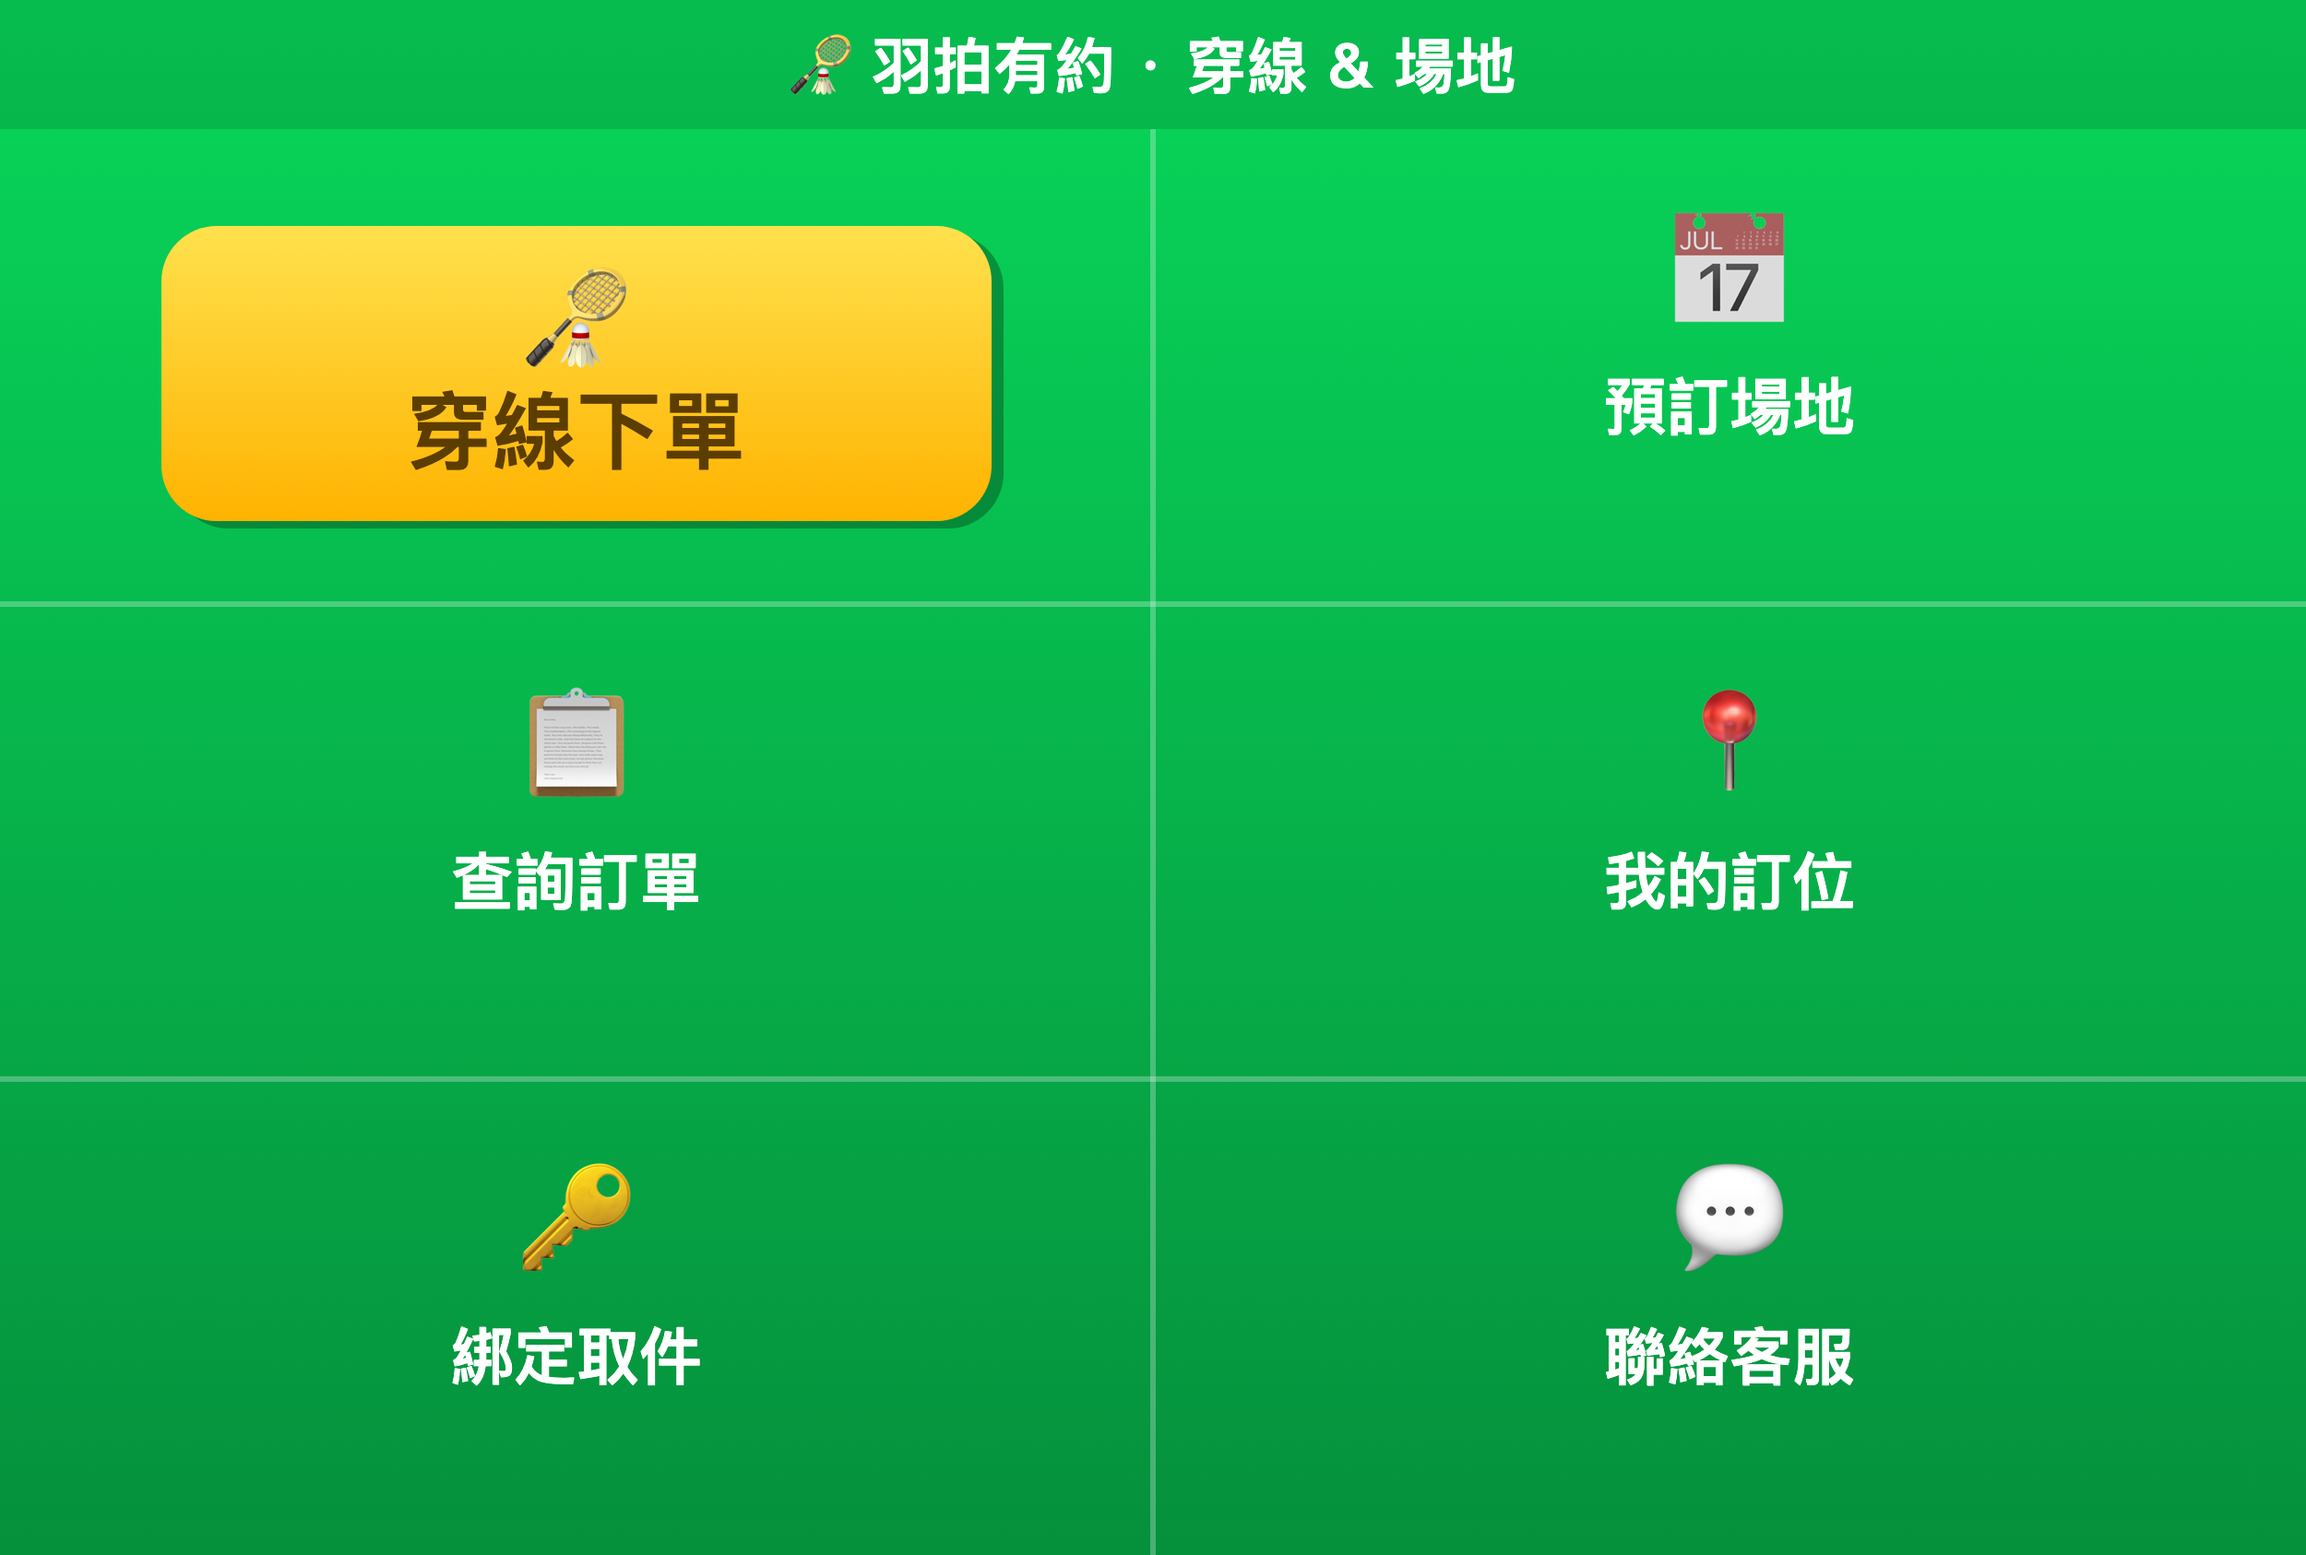
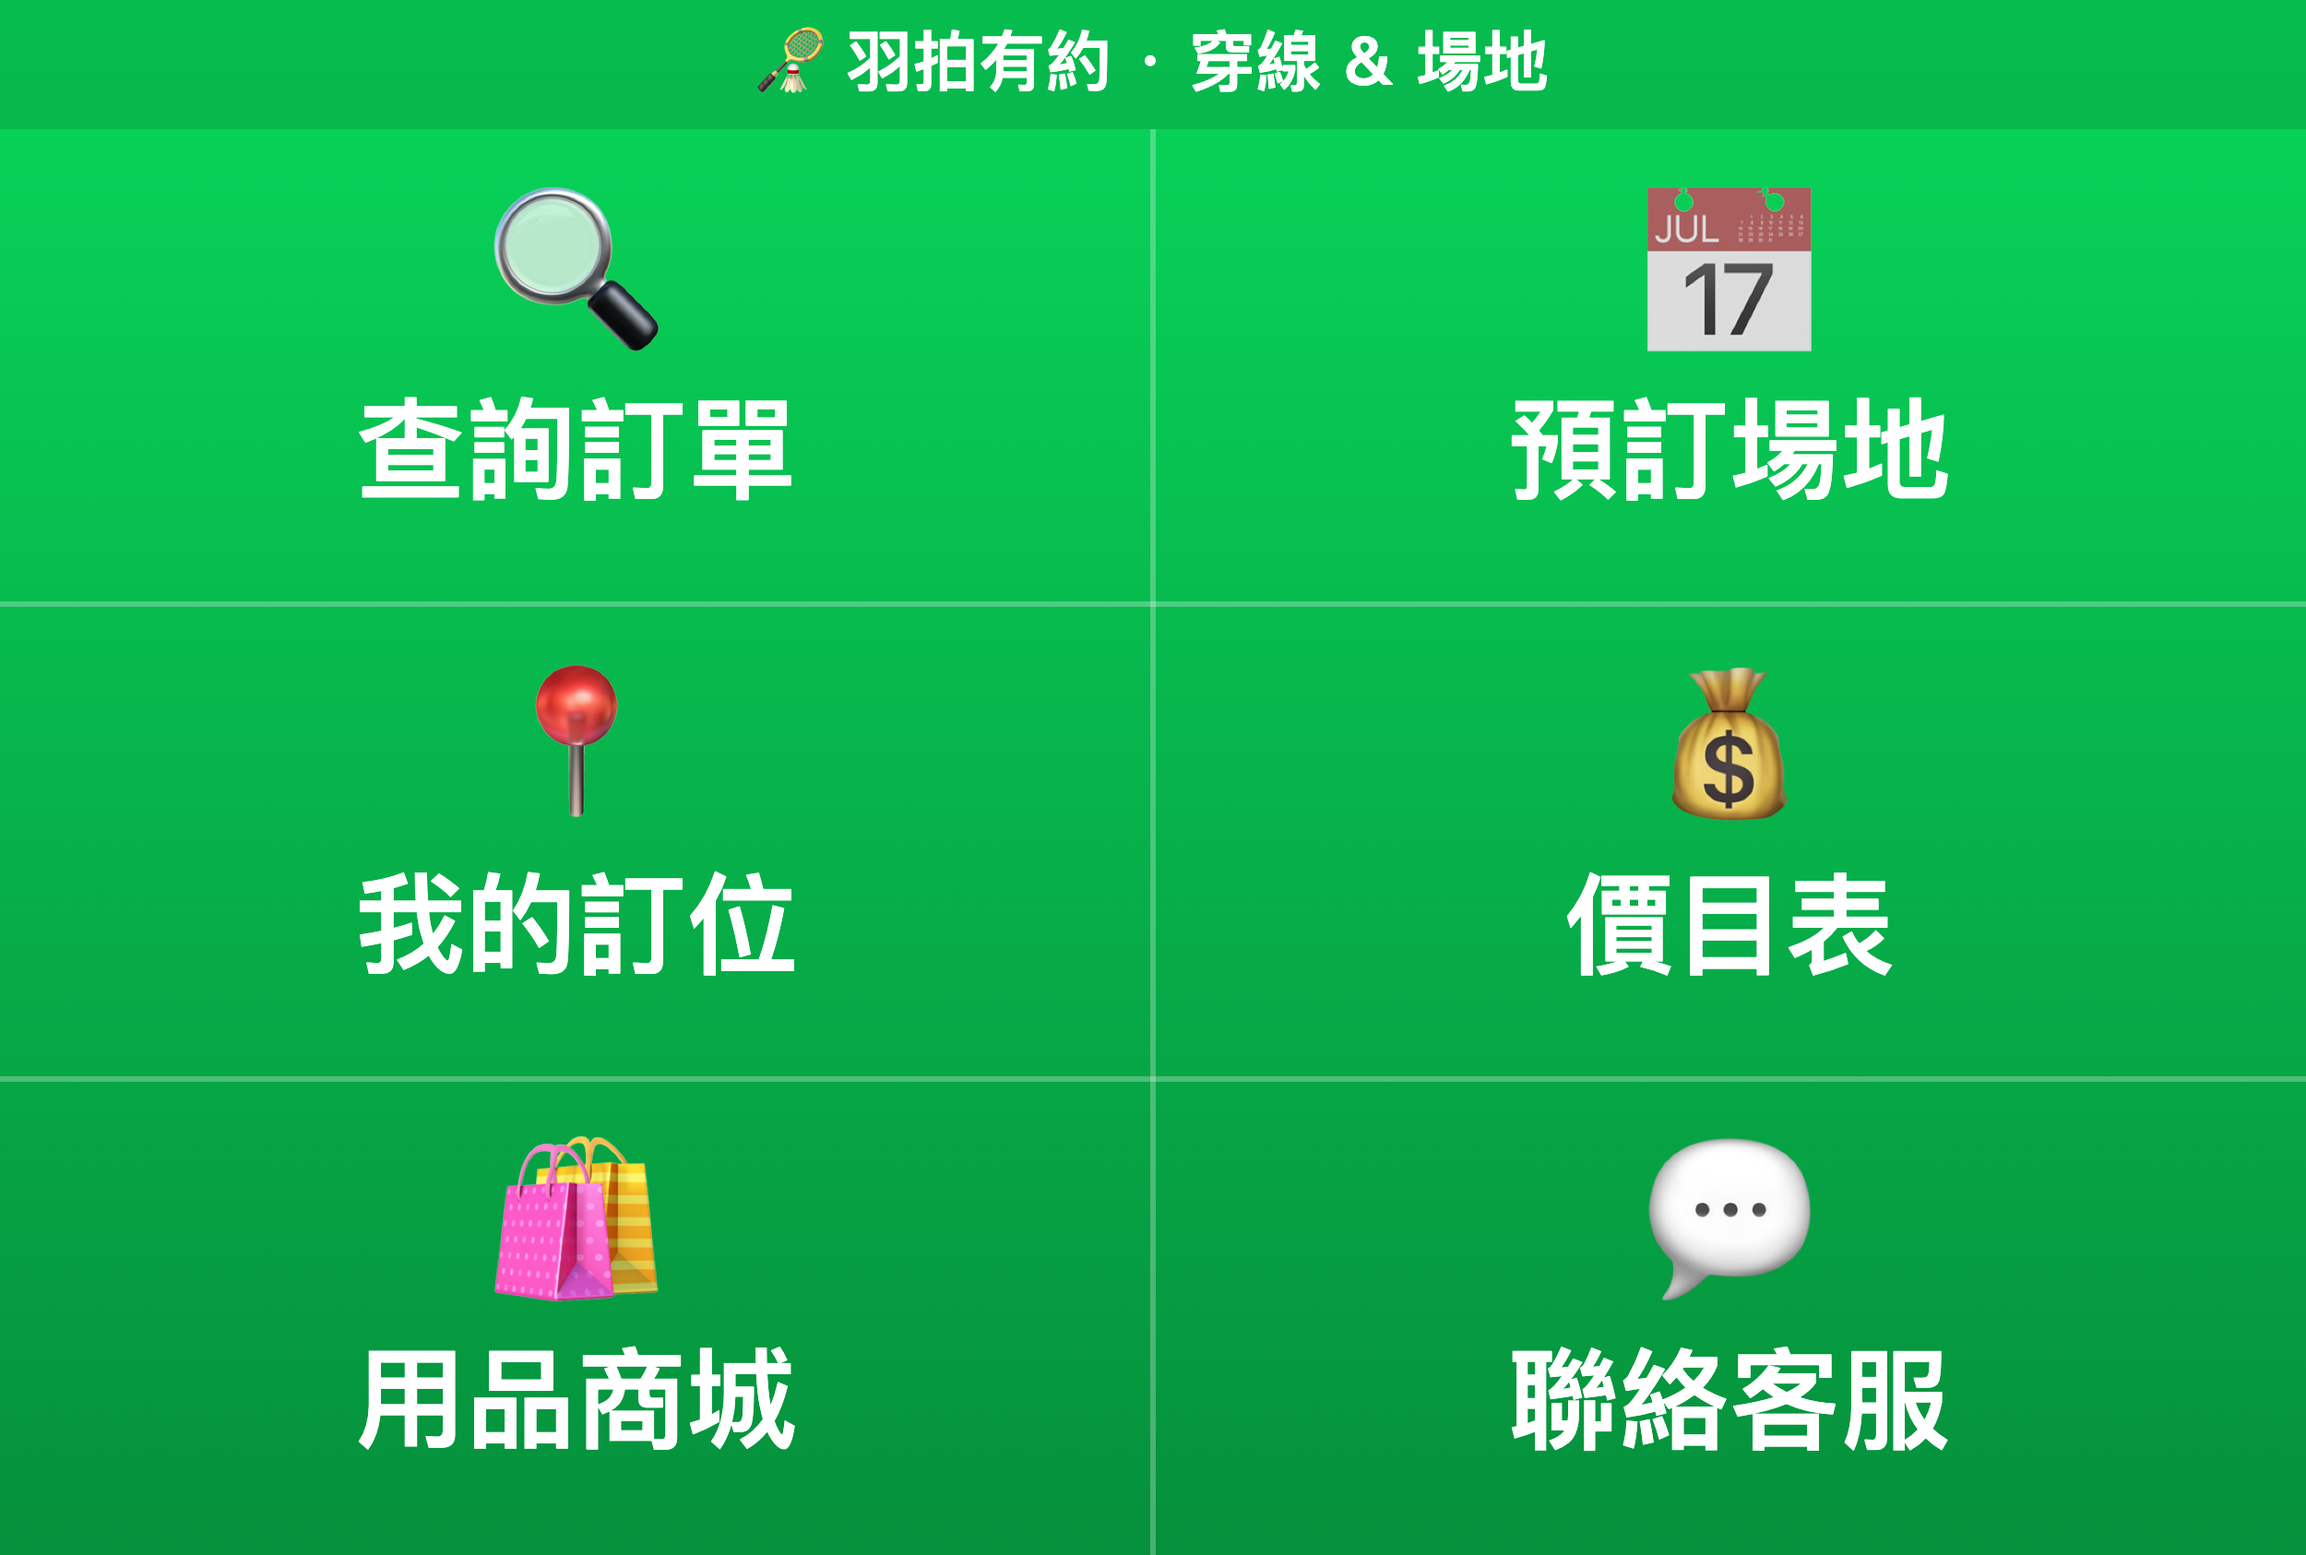
feat: rich menu 改6格+字放大(查詢/預訂/訂位/價目/商城/客服)，用品商城預留

diff --git a/web/src/app/api/webhook/route.ts b/web/src/app/api/webhook/route.ts
@@ -83,6 +83,14 @@ export async function POST(request: NextRequest) {
         continue;
       }
 
+      // 用品商城（預留，尚未上線）
+      if (text === '用品商城' || text === '商城') {
+        await replyMessage(event.replyToken, [
+          { type: 'text', text: '🛍 用品商城籌備中，敬請期待！' },
+        ]);
+        continue;
+      }
+
       // 客人傳 4 位認證碼 → kiosk 身份認證（備援）
       const sessionReply = await handleSessionCode(text, userId);
       if (sessionReply) {

diff --git a/tools/setup-richmenu.py b/tools/setup-richmenu.py
@@ -20,56 +20,32 @@ HEADERS = {"Authorization": f"Bearer {TOKEN}", "Content-Type": "application/json
 RICH_MENU = {
     "size": {"width": 2500, "height": 1686},
     "selected": True,
-    "name": "羽拍有約主選單-v2",
+    "name": "羽拍有約主選單-v3",
     "chatBarText": "開啟選單",
     "areas": [
         {
             "bounds": {"x": 0, "y": 140, "width": 1250, "height": 515},
-            "action": {
-                "type": "uri",
-                "label": "穿線下單",
-                "uri": "https://smartlocker-alpha.vercel.app/order"
-            }
+            "action": {"type": "message", "label": "查詢訂單", "text": "查詢訂單"}
         },
         {
             "bounds": {"x": 1250, "y": 140, "width": 1250, "height": 515},
-            "action": {
-                "type": "uri",
-                "label": "預訂場地",
-                "uri": "https://liff.line.me/1660947211-e5z12ax6"
-            }
+            "action": {"type": "uri", "label": "預訂場地", "uri": "https://liff.line.me/1660947211-e5z12ax6"}
         },
         {
             "bounds": {"x": 0, "y": 655, "width": 1250, "height": 515},
-            "action": {
-                "type": "message",
-                "label": "查詢訂單",
-                "text": "查詢訂單"
-            }
+            "action": {"type": "uri", "label": "我的訂位", "uri": "https://difly-booking.vercel.app/bookings"}
         },
         {
             "bounds": {"x": 1250, "y": 655, "width": 1250, "height": 515},
-            "action": {
-                "type": "uri",
-                "label": "我的訂位",
-                "uri": "https://difly-booking.vercel.app/bookings"
-            }
+            "action": {"type": "message", "label": "價目表", "text": "價目表"}
         },
         {
             "bounds": {"x": 0, "y": 1170, "width": 1250, "height": 516},
-            "action": {
-                "type": "message",
-                "label": "綁定取件",
-                "text": "綁定取件"
-            }
+            "action": {"type": "message", "label": "用品商城", "text": "用品商城"}
         },
         {
             "bounds": {"x": 1250, "y": 1170, "width": 1250, "height": 516},
-            "action": {
-                "type": "message",
-                "label": "聯絡客服",
-                "text": "客服"
-            }
+            "action": {"type": "message", "label": "聯絡客服", "text": "客服"}
         }
     ]
 }
@@ -117,17 +93,17 @@ def create():
 def list_menus():
     if not TOKEN:
         print("❌ 請設定 LINE_CHANNEL_ACCESS_TOKEN"); sys.exit(1)
-    r = requests.get(API, headers=HEADERS)
+    r = requests.get(f"{API}/list", headers=HEADERS)
     if r.status_code != 200:
         print(f"❌ 讀取失敗: {r.status_code} {r.text}"); sys.exit(1)
-    menus = r.json()
+    menus = r.json().get("richmenus", [])
     if not menus:
         print("目前沒有 Rich Menu")
         return
     for m in menus:
         print(f"  ID: {m.get('richMenuId')}")
         print(f"  名稱: {m.get('name')}")
-        print(f"  狀態: {'✅ 預設' if m.get('isDefault') else ''}")
+        print(f"  狀態: {'✅ 預設' if m.get('selected') else ''}")
         print()
 
 def delete_menu(menu_id):
